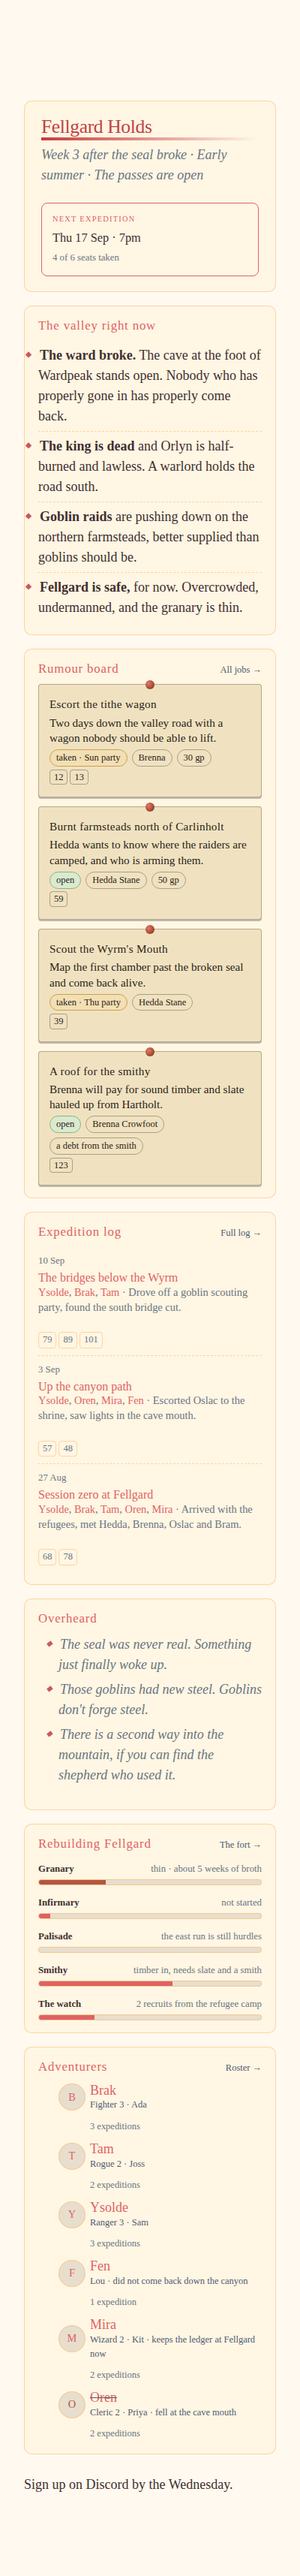
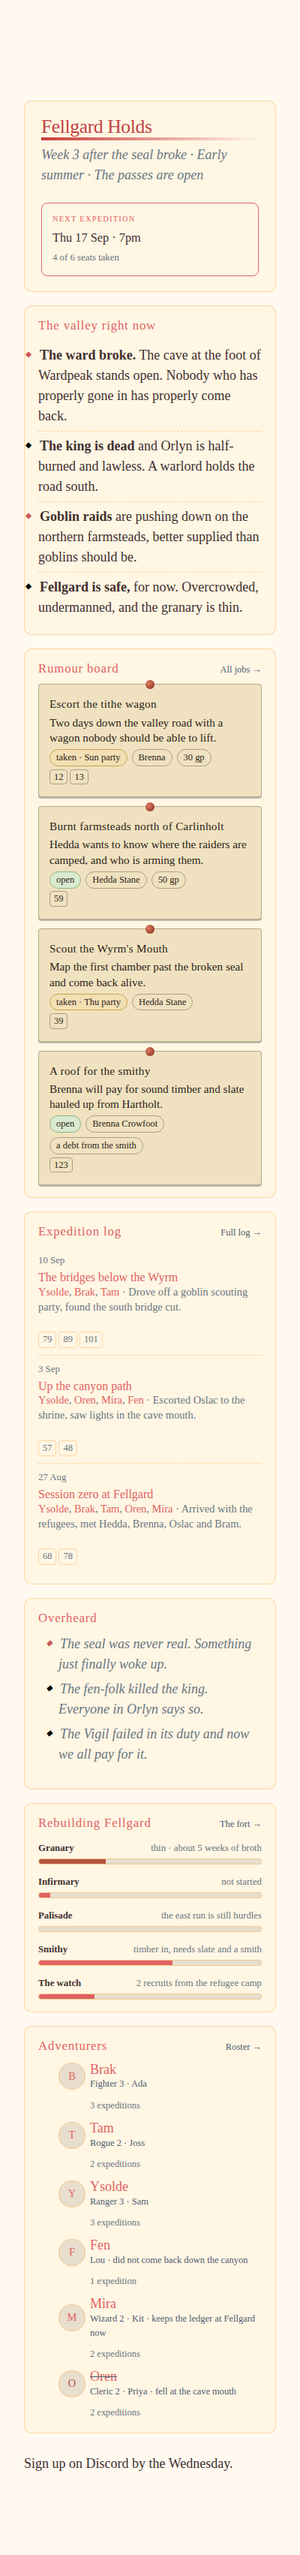
Remove the built-in theme; the site uses ITS Theme (1.2.0)
The plugin shipped an optional parchment theme (off by default) with its own
palette and Cinzel/EB Garamond from Google Fonts. The site now runs ITS Theme
in its wotc-beyond palette, which reads far better, and the two would have
fought if both were on. The hub now takes its whole look from the host theme.

Removed:
- the campaignTheme setting
- templates/head.njk, which loaded the fonts and set the theme class
- the html.campaign-theme block in the stylesheet (~100 lines)
- the dark-parchment screenshot

templates/macros.njk stays declared under common.head. It renders nothing,
but a slot declaration is the only way the loader syncs a file into
_includes, and the other templates import their shared macros from it.

A side effect worth having: the plugin now makes no external requests at
all. Its one fetch is /hexcrawl-map.json on the site's own origin, and the
CLAUDE.md rule says so.

Anyone who had campaignTheme switched on loses it on update. Their garden
falls back to its own theme — nothing breaks, the loader ignores a stored
value for a setting that no longer exists.

Claude-Session: https://claude.ai/code/session_01XyQMpZLL2eB9kC88tmMQUj

diff --git a/styles/campaign-hub.scss b/styles/campaign-hub.scss
@@ -1,12 +1,10 @@
 /*
  * Campaign Hub styles.
  *
- * Two layers:
- *   1. The hub components, scoped under .campaign-hub and drawn in the
- *      garden's own theme colours, so they sit inside whatever Obsidian
- *      theme the site is using.
- *   2. The optional campaign theme, scoped under html.campaign-theme, which
- *      the head slot only adds when the setting is on.
+ * Everything is scoped under .campaign-hub and drawn from the garden's own
+ * Obsidian theme variables, so the hub takes its look from whatever theme
+ * the site loads — ITS Theme on the live site. The plugin brings no palette
+ * or typefaces of its own.
  */
 
 .campaign-hub {
@@ -614,100 +612,4 @@ main:has(.ch-home) > header h1 { display: none; }
 
   .ch-pc { grid-template-columns: 32px minmax(0, 1fr); }
   .ch-pc-count { grid-column: 2; }
-}
-
-/*
- * ---------- the optional campaign theme ----------
- *
- * Only the palette and the typefaces. Layout, the hex map, search, the file
- * tree and code blocks all keep working because nothing here touches them
- * beyond colour.
- */
-
-/*
- * The palette is declared on <body> as well as <html>: the garden's own theme
- * sets these same variables on body.theme-dark, which would otherwise win for
- * everything inside body no matter what <html> says.
- */
-html.campaign-theme,
-html.campaign-theme body {
-  --background-primary: #16130f;
-  --background-primary-alt: #1a1612;
-  --background-secondary: #221d17;
-  --background-secondary-alt: #2a241c;
-  --background-modifier-border: #3b3226;
-  --background-modifier-form-field: #1a1612;
-  --text-normal: #e9dfcb;
-  --text-muted: #b3a78f;
-  --text-faint: #857a66;
-  --text-title-h1: #f1e4c6;
-  --text-title-h2: #e6d4ab;
-  --text-accent: #d2a85a;
-  --text-accent-hover: #e6c079;
-  --text-a: #d2a85a;
-  --text-a-hover: #e6c079;
-  --interactive-accent: #8f7240;
-  --text-highlight-bg: rgba(210, 168, 90, 0.25);
-  --text-selection: rgba(210, 168, 90, 0.25);
-  --font-family-preview: "EB Garamond", Garamond, Georgia, serif;
-}
-
-html.campaign-theme {
-  background-color: #16130f;
-  color-scheme: dark;
-
-  body {
-    font-family: "EB Garamond", Garamond, Georgia, serif;
-    font-size: 1.05rem;
-    background-color: var(--background-primary);
-    color: var(--text-normal);
-  }
-
-  /* The filetree and the sidebar are painted from their own variables. */
-  .filetree-sidebar,
-  .nav-file-title,
-  .sidebar-container,
-  .navbar {
-    background-color: var(--background-primary-alt);
-  }
-
-  h1, h2, h3, h4, h5, h6 {
-    font-family: "Cinzel", "Trajan Pro", Georgia, serif;
-    letter-spacing: 0.03em;
-  }
-
-  /* Code and the map viewer keep a UI face — a display serif makes both
-     unreadable. */
-  code, pre, kbd, samp,
-  .hexcrawl-map, .hexcrawl-map * {
-    font-family: var(--font-monospace, ui-monospace, SFMono-Regular, Menlo, monospace);
-  }
-
-  .campaign-hub { --ch-display: "Cinzel", "Trajan Pro", Georgia, serif; }
-
-  .ch-banner {
-    background:
-      radial-gradient(1200px 300px at 10% -40%, rgba(210, 168, 90, 0.18), transparent 60%),
-      linear-gradient(180deg, #2a2219, #1f1a14);
-  }
-
-  .ch-fill { background: linear-gradient(90deg, #8f7240, #d2a85a); }
-  .ch-bar-warn .ch-fill { background: linear-gradient(90deg, #7a3a2b, #b5553f); }
-
-  /* Callouts as handouts. */
-  .callout[data-callout="quote"],
-  .callout[data-callout="handout"],
-  .callout[data-callout="rumour"] {
-    background: #f0e2c0;
-    color: #2b2217;
-    border-left: 3px solid #8f7240;
-  }
-
-  .callout[data-callout="quote"] .callout-title,
-  .callout[data-callout="handout"] .callout-title,
-  .callout[data-callout="rumour"] .callout-title { color: #6a5334; }
-
-  .callout[data-callout="quote"] a,
-  .callout[data-callout="handout"] a,
-  .callout[data-callout="rumour"] a { color: #7c2a1b; }
 }

diff --git a/CLAUDE.md b/CLAUDE.md
@@ -124,9 +124,9 @@ Home dashboard (`index.beforeContent`, only when the home note has `hub: home`):
 8. Adventurers: characters, alive first, dead struck through
 Any section with no data is omitted. Nothing renders an empty box.
 
-Optional site theme (setting, default off): parchment/dark palette, Cinzel + EB Garamond from Google Fonts with system serif fallbacks. Toggled by a class on `<html>` set from a `common.head` slot so it can be switched off cleanly.
+## Theme
 
-**The site's theme is ITS Theme, not this setting.** The garden loads it with `THEME=https://raw.githubusercontent.com/slrvb/Obsidian--ITS-Theme/main/theme.css`, `BASE_THEME=light`, `STYLE_SETTINGS_BODY_CLASSES=wotc-beyond`. The hub must look right inside it. Things a host theme does that broke the hub before, and that any change here must keep working:
+**The site's theme is ITS Theme.** The plugin has no theme of its own and must not grow one: it draws only from the host theme's Obsidian variables. (A built-in parchment theme existed up to 1.1.0 and was removed in 1.2.0 in favour of ITS.) The garden loads it with `THEME=https://raw.githubusercontent.com/slrvb/Obsidian--ITS-Theme/main/theme.css`, `BASE_THEME=light`, `STYLE_SETTINGS_BODY_CLASSES=wotc-beyond`. The hub must look right inside it. Things a host theme does that broke the hub before, and that any change here must keep working:
 
 - a decorative `::before`/`::after` on a heading becomes a **flex item** in our card headings and wraps the title — switched off on our own headings only
 - a themed `li::before` bullet becomes an extra **grid item** in `.ch-pc` roster rows and wraps them
@@ -134,7 +134,7 @@ Optional site theme (setting, default off): parchment/dark palette, Cinzel + EB 
 - table row/column striping is neutralised through `--table-*-alt-background` inside `.ch-log`, not by out-specifying the theme
 - a bare garden with no theme leaves `--text-muted` / `--text-faint` **undefined**; the fallbacks are derived from `--ch-ink` with `color-mix`, never fixed greys
 
-Check any styling change against ITS light, a bare garden, and the plugin's own theme. `dev/setup.sh --its` builds the ITS case.
+Check any styling change against ITS light and a bare garden. `dev/setup.sh --its` builds the ITS case; plain `dev/setup.sh` builds the bare one.
 
 ## Local test harness
 
@@ -153,7 +153,7 @@ Everything in `dev/` is for testing only. Keep it small. It gets copied into the
 - The site must never break because of this plugin. Missing or odd frontmatter degrades to "section hidden", not a build error.
 - British spelling in anything user-facing. Plain wording, no marketing tone.
 - Accessible: real links and buttons, sensible headings, readable contrast, works at 400 px.
-- No external requests except Google Fonts (theme) and `/hexcrawl-map.json`.
+- No external requests. The one fetch the plugin makes is `/hexcrawl-map.json`, on the site's own origin.
 
 ## Git workflow
 

diff --git a/README.md b/README.md
@@ -140,13 +140,12 @@ trying for a campaign site: `wotc-beyond` (cream parchment, dark brown ink,
 red headings), `dnd`, `pathfinder`, `pathfinder-remaster`, `drwn` and `advt`.
 Each works in light or dark — set `BASE_THEME` to match.
 
-Dark parchment reads worse than light for long text: cream-on-brown gives you
-about 11:1 contrast where a dark parchment gives about 4:1. If your players
-read job summaries and expedition reports on a phone, prefer a light palette.
+Prefer a light palette if your players read on phones. `wotc-beyond` puts
+dark brown ink on cream at about 11:1 contrast, which holds up for job
+summaries and expedition reports in daylight.
 
-The plugin's own **Campaign theme** setting is an alternative for gardens that
-would rather not load an external theme. It is off by default, and there is no
-reason to turn it on if you are using ITS — they would fight.
+The plugin brings no palette or typefaces of its own, and makes no requests
+outside your site except for the hex map's data.
 
 ## Settings
 
@@ -159,13 +158,8 @@ Obsidian → Settings → Digital Garden → Plugins → Campaign Hub.
 | Overheard rumours | random 3 | Three at random on each visit, or all of them |
 | Hex map data | `/hexcrawl-map.json` | Where the map card reads its data |
 | Property strip on notes | on | The strip under the title of job, session and character notes |
-| Campaign theme | off | Restyles the whole site: parchment palette, Cinzel and EB Garamond |
 
-The campaign theme is the only thing here that reaches outside your site: it
-loads two typefaces from Google Fonts. Leave it off and the hub uses your
-garden's own theme.
-
-![The home dashboard with the campaign theme on](docs/screenshot-home-theme.png)
+![The home dashboard on a phone](docs/screenshot-home-phone.png)
 
 ## Working on it
 

diff --git a/docs/PROMPTS.md b/docs/PROMPTS.md
@@ -4,6 +4,7 @@
 > is here for the "Iterating after that" section at the bottom, which is still
 > the shape to use for changes and bug reports. The repo is
 > `j-a-hill/forestry-hub`, not the `forestry-campaign-hub` named below.
+> Prompt 6's built-in theme was later removed (1.2.0): the site uses ITS Theme.
 
 Paste these into a Claude Code session on the `forestry-campaign-hub` repo, one at a time. Wait for each to finish, check the screenshots or the PR, then move on. `CLAUDE.md` carries the background, so the prompts stay short.
 
